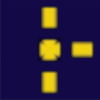
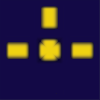
Raskrsnice prvi deo

diff --git a/1.py b/1.py
@@ -40,13 +40,38 @@ class Car(object):  # klasa za automobile
             self.image = pg.transform.rotate(self.image,90)
 
 class Road(object):  # klasa za puteve
-    def __init__(self):
-        self.image = pg.image.load("./put.png").convert_alpha()
+    def __init__(self,tip):
         self.x = 0
         self.y = 0
+        if(tip == "put" or tip == 1):
+            self.image = pg.image.load("./put.png").convert_alpha()
+            self.rotiraj("desno")
+        
+        elif(tip == "putv" or tip == 2):
+            self.image = pg.image.load("./put.png").convert_alpha()
+            self.rotiraj("gore")
+
+        elif(tip == "skretanje" or tip == 3):
+            self.image = pg.image.load("./skretanje.png").convert_alpha()
+        
+        elif(tip == "raskrsnica" or tip == 4):
+            self.image = pg.image.load("./raskrsnica.png").convert_alpha()
+        
+        elif(tip == "T_put" or tip == 5):
+            self.image = pg.image.load("./T_put.png").convert_alpha()
         
     def draw(self, surface):
         surface.blit(self.image, (self.x, self.y))
+
+    def rotiraj(self,smer):
+        if (smer == "gore" ):
+            self.image = pg.transform.rotate(self.image,0) 
+        elif (smer == "dole"):
+            self.image = pg.transform.rotate(self.image,180)
+        elif (smer == "levo"):
+            self.image = pg.transform.rotate(self.image,270)
+        elif (smer == "desno"):
+            self.image = pg.transform.rotate(self.image,90)
 
 class Semafor(object):
     def __init__(self):
@@ -79,15 +104,16 @@ pg.display.set_caption("Traffic Jam Simulation")
 ##const matrix puteva koji postoje,mozda kasnije i nasumicni
 # Horizontalan put - 1
 # Vertikalan put - 2
-# Raskrsnica - 3
-# T_put - 4
+# Skretanje - 3
+# Raskrsnica - 4
+# T_put - 5
 RoadArr = [
     [1, 1, 1, 1, 1, 1, 1, 1, 1, 1, 1, 1, 1, 1, 1, 1],
     [0, 0, 0, 2, 0, 0, 0, 2, 0, 2, 0, 0, 2, 0, 0, 0],
-    [0, 0, 0, 2, 0, 0, 0, 1, 1, 1, 0, 0, 2, 0, 0, 0],
-    [1, 1, 1, 1, 1, 1, 1, 2, 0, 0, 0, 0, 2, 0, 0, 0],
+    [0, 0, 0, 2, 0, 0, 0, 2, 1, 3, 0, 0, 2, 0, 0, 0],
+    [1, 1, 1, 1, 1, 1, 1, 4, 0, 0, 0, 0, 2, 0, 0, 0],
     [0, 0, 0, 2, 0, 2, 0, 2, 0, 0, 0, 0, 2, 0, 0, 0],
-    [0, 0, 0, 2, 0, 1, 1, 1, 1, 1, 1, 1, 1, 1, 1, 1],
+    [0, 0, 0, 2, 0, 1, 1, 5, 1, 1, 1, 1, 1, 1, 1, 1],
     [1, 1, 1, 1, 1, 2, 0, 0, 2, 0, 0, 0, 2, 0, 0, 0],
     [0, 0, 0, 2, 0, 0, 0, 0, 2, 0, 0, 0, 2, 0, 0, 0],
 ]
@@ -106,15 +132,11 @@ semafori = np.zeros(shape=(8,17),dtype=Semafor)
 auto_index = 0  # ovo treba promenu kako bi uvek bio ispunjen broj automobila br_car, samo se generisu na random lokacijama,
 for i in range(0, 7):
     for y in range(0, 15):
-        if RoadArr[i][y] == 2:
-            RoadObj[i][y] = Road()
+        if RoadArr[i][y] == 1:
+            RoadObj[i][y] = Road(1)
             RoadObj[i][y].y = i * 100 + 100
             RoadObj[i][y].x = y * 100 + 100
-        elif RoadArr[i][y] == 1:
-            RoadObj[i][y] = Road()
-            RoadObj[i][y].y = i * 100 + 100
-            RoadObj[i][y].x = y * 100 + 100
-            RoadObj[i][y].image = pg.transform.rotate(RoadObj[i][y].image, 90)
+            #RoadObj[i][y].image = pg.transform.rotate(RoadObj[i][y].image, 90)
             if round(random.random()) and auto_index <= br_car:
                 CarLocation[i][y] = 1
                 CarDirection[auto_index] = 0
@@ -122,6 +144,22 @@ for i in range(0, 7):
                 CarArr[auto_index].x = y * 100 + 100
                 CarArr[auto_index].y = i * 100 + 130
                 auto_index += 1
+        elif RoadArr[i][y] == 2: # Uspravan put
+            RoadObj[i][y] = Road(2)
+            RoadObj[i][y].y = i * 100 + 100
+            RoadObj[i][y].x = y * 100 + 100
+        elif RoadArr[i][y] == 3: # Skretanje 
+            RoadObj[i][y] = Road(3)
+            RoadObj[i][y].y = i * 100 + 100
+            RoadObj[i][y].x = y * 100 + 100
+        elif RoadArr[i][y] == 4: # Raskrsnica 
+            RoadObj[i][y] = Road(4)
+            RoadObj[i][y].y = i * 100 + 100
+            RoadObj[i][y].x = y * 100 + 100
+        elif RoadArr[i][y] == 5: # T_put
+            RoadObj[i][y] = Road(5) 
+            RoadObj[i][y].y = i * 100 + 100
+            RoadObj[i][y].x = y * 100 + 100
 
 
 boja = 0
